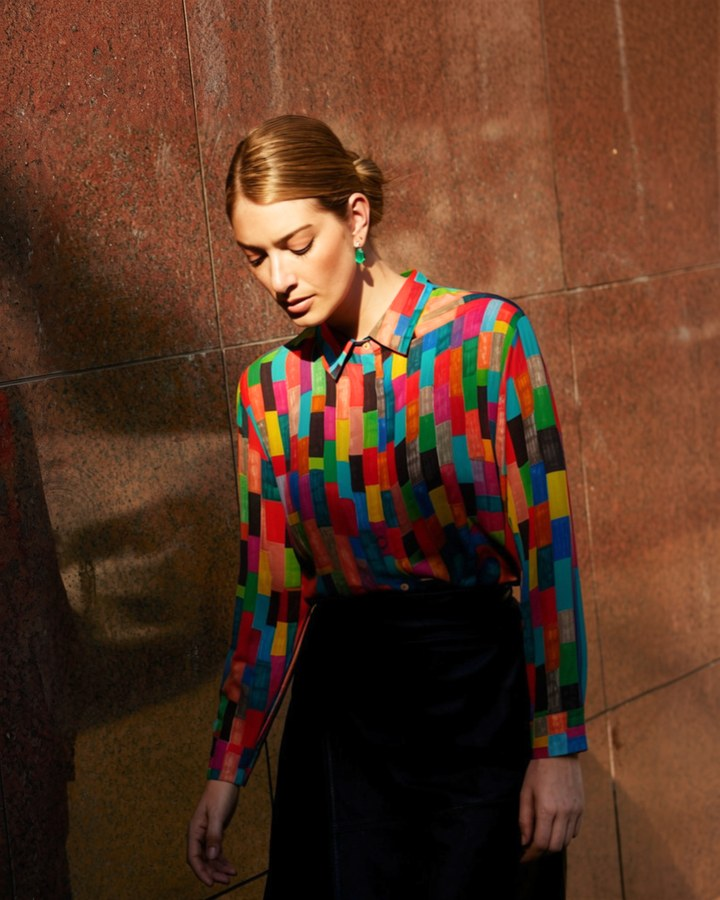
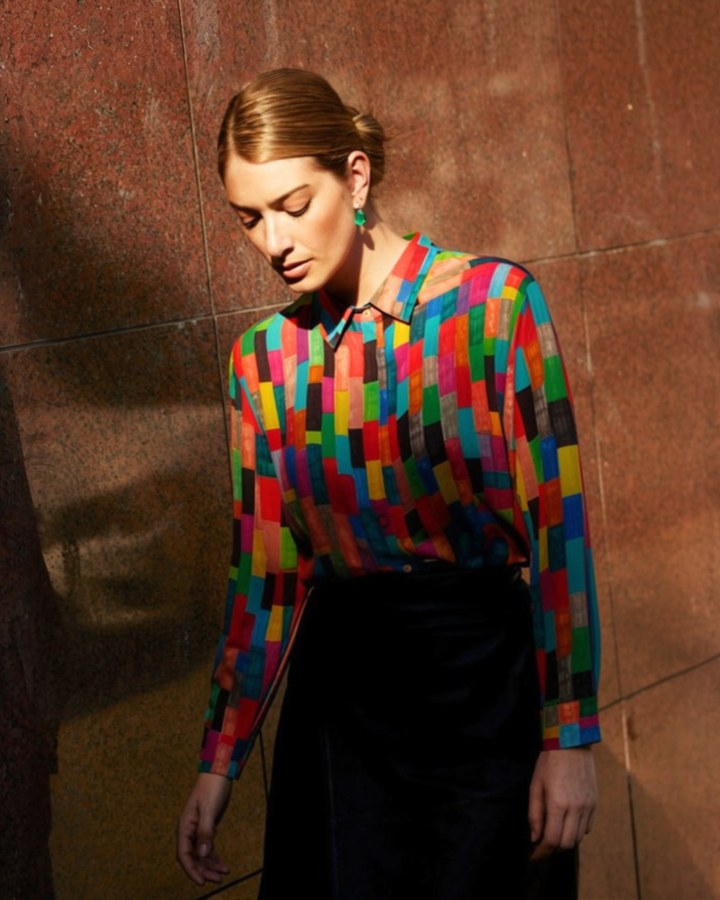
Marina Saleme: Feed com as 5 fotos que a Bia colocou na pasta e Camisa T Tijolo refeita (centralizada, barra inteira) para nova aprovacao

diff --git a/app/marina/aprovar/novembro/dados.ts b/app/marina/aprovar/novembro/dados.ts
@@ -15,6 +15,12 @@
  * 25/11 (Lucas: "peça nenhuma pode cortar a cabeça"): 9 fotos tinham a cabeça
  * na borda. Fundo estendido por IA (nano-banana-2) só fora da foto; a foto
  * original foi colada por cima, sem mudar roupa nem modelo.
+ *
+ * 25/11 tarde (respostas da Bia): 5 fotos de Feed trocadas pelas que ela colocou
+ * na pasta Carrossel (Chemise e Calça Onça, Camisa Ana Tijolo, Vestido Luiza,
+ * Caftan e Camisa Ana Rei Rainha). Camisa T Tijolo refeita como ela pediu
+ * (modelo centralizada nos dois formatos, barra da camisa inteira no Feed) e
+ * reenviada com id novo "tijolo-camisa-t-v2"; a resposta antiga fica no banco.
  */
 
 import type { AnuncioNovo } from "@/lib/marina/aprovar";
@@ -48,7 +54,7 @@ export const NOVOS: AnuncioNovo[] = [
   faz("onca-chemise-calca", "Chemise Onça e Calça Onça", "vestido", "ONÇA",
     "O animal print nunca sai de moda e está com nova cara no Chemise Onça + Calça Onça 100% linho, perfeito para viver o verão."),
   // ---- Tijolo (páginas 4 a 7) ----
-  faz("tijolo-camisa-t", "Camisa T Tijolo", "camisa", "TIJOLO",
+  faz("tijolo-camisa-t-v2", "Camisa T Tijolo", "camisa", "TIJOLO",
     "A Camisa T na estampa Tijolo. Feita 100% em seda com modelagem moderna fora do básico, sem perder elegância."),
   faz("tijolo-vestido-asa", "Vestido Asa Tijolo", "vestido", "TIJOLO",
     "Versátil e elegante, Vestido Asa Tijolo feito 100% seda tem modelagem exclusiva com o DNA Marina Saleme."),
@@ -66,21 +72,21 @@ export const NOVOS: AnuncioNovo[] = [
     "Top Lelê estampa Paraíso, modelo único com mangas amplas, fora do óbvio, mas com a elegância do 100% seda."),
 ];
 
-const RECORTE = "O Feed é um recorte nosso da foto de Reels (essa veio só em 9:16). Se preferirem outra foto para o Feed, digam no comentário.";
-
 const FUNDO = (onde: string) =>
   `Na foto ${onde}, a cabeça encostava na borda. Aumentamos só o fundo acima dela para não cortar; a roupa e a modelo são a foto original.`;
 
+const DA_PASTA = "Feed: a foto que vocês colocaram na pasta.";
+
 /** Avisos que aparecem em laranja no card. */
 export const CONFERIR: Record<string, string> = {
-  "onca-chemise-calca": RECORTE,
-  "tijolo-camisa-t": `${RECORTE} ${FUNDO("de Feed e na de Reels")}`,
-  "rei-rainha-caftan": RECORTE,
-  "rei-rainha-camisa-ana": `${RECORTE} ${FUNDO("de Feed e na de Reels")}`,
+  "tijolo-camisa-t-v2": "Refeita como pediram: modelo centralizada no Feed e no Reels e, no Feed, a barra da camisa inteira. Para centralizar, aumentamos só o fundo nas laterais e em cima; a roupa e a modelo são a foto original.",
+  "onca-chemise-calca": DA_PASTA,
+  "tijolo-vestido-luiza": DA_PASTA,
+  "rei-rainha-caftan": DA_PASTA,
+  "tijolo-camisa-ana": `${DA_PASTA} ${FUNDO("de Reels")}`,
+  "rei-rainha-camisa-ana": `${DA_PASTA} ${FUNDO("de Reels")}`,
   "onca-regata-saia-degrau": FUNDO("de Feed"),
-  "tijolo-camisa-ana": FUNDO("de Feed e na de Reels"),
   "tijolo-vestido-asa": FUNDO("de Feed"),
-  "tijolo-vestido-luiza": FUNDO("de Feed"),
 };
 
 export const TODOS = NOVOS.map((a) => ({ id: a.id, nome: a.peca }));
